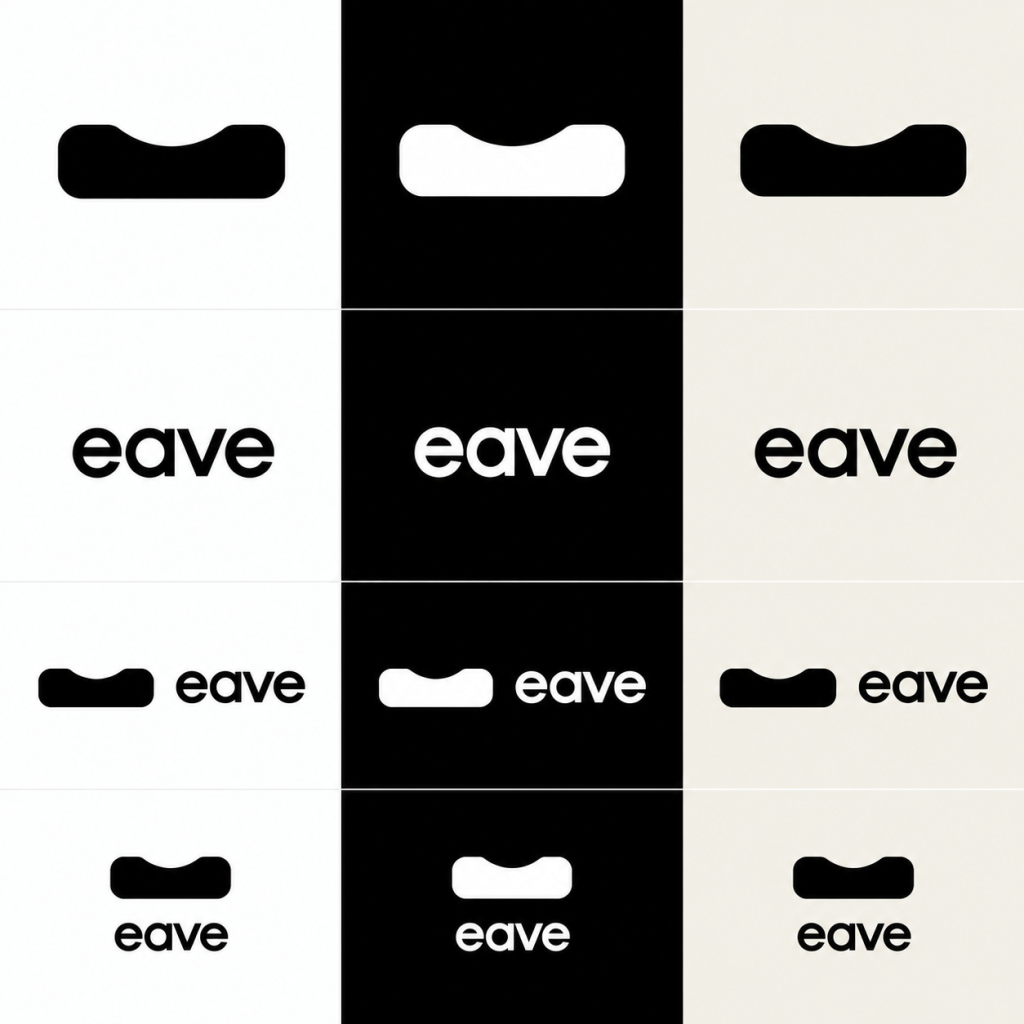
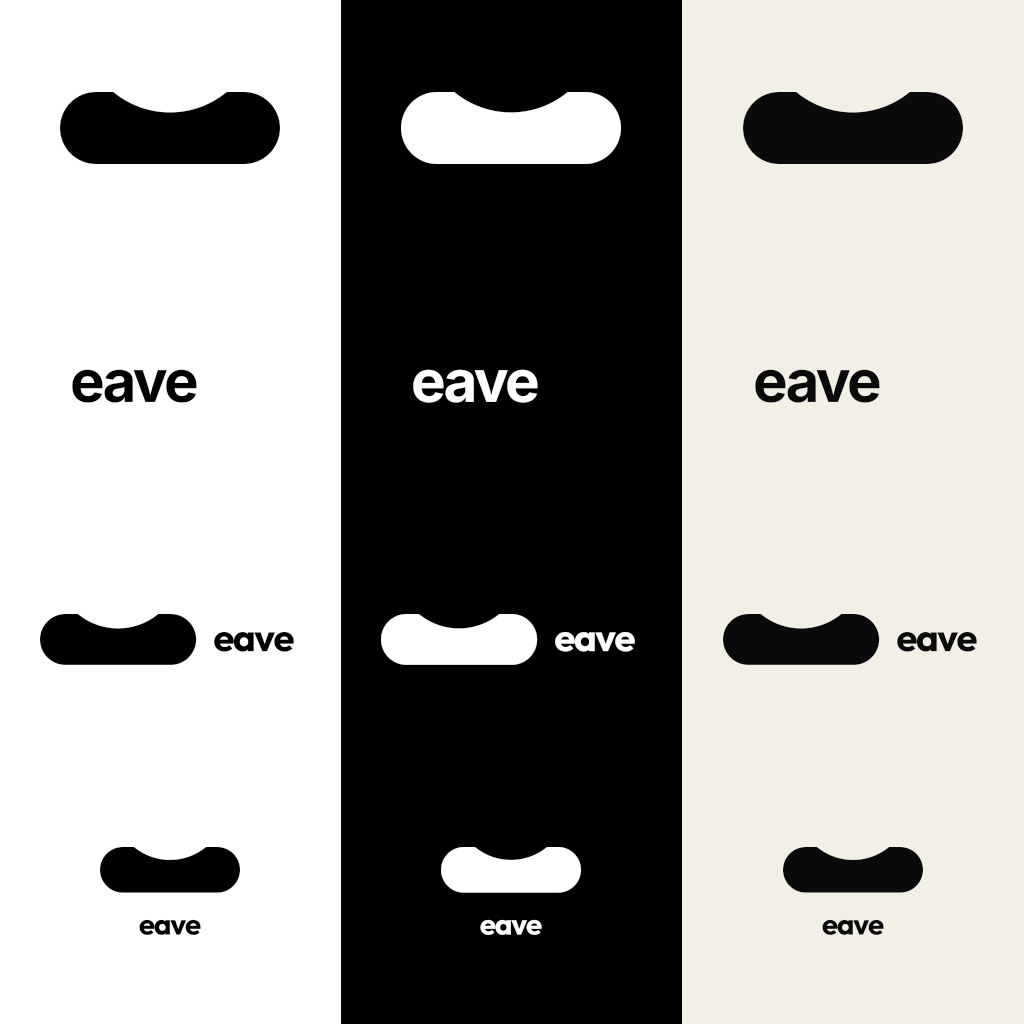
Fix the Eave mark hairline and show the wordmark in the README.
The scooped pill was an even-odd stadium plus a circle that stuck out
above the viewBox. Clippers left a chord along the cutout. Rebuild it as
one fill-only path (outer stadium minus the top scoop, no stroke) and
use the mark plus lowercase eave lockup at the top of the README.

diff --git a/site/index.html b/site/index.html
@@ -14,7 +14,7 @@
   <header class="nav" id="top">
     <a class="brand" href="#top" aria-label="Eave home">
       <svg class="brand-mark" viewBox="0 0 227 74" aria-hidden="true">
-        <path fill="currentColor" fill-rule="evenodd" d="M37 0H190A37 37 0 0 1 227 37 37 37 0 0 1 190 74H37A37 37 0 0 1 0 37 37 37 0 0 1 37 0ZM113.5-71m-92 0a92 92 0 1 1 184 0a92 92 0 1 1-184 0Z"/>
+        <path fill="currentColor" stroke="none" d="M54.99359 0H37A37 37 0 0 0 0 37 37 37 0 0 0 37 74H190A37 37 0 0 0 227 37 37 37 0 0 0 190 0H172.00641A92 92 0 0 1 54.99359 0Z"/>
       </svg>
       <span class="brand-word">eave</span>
     </a>
@@ -30,7 +30,7 @@
         <p class="hero-kicker rise" style="--d:80ms">GNOME Shell · Fedora</p>
         <h1 class="hero-lockup rise" style="--d:160ms">
           <svg class="hero-mark" viewBox="0 0 227 74" role="img" aria-label="Eave mark">
-            <path fill="currentColor" fill-rule="evenodd" d="M37 0H190A37 37 0 0 1 227 37 37 37 0 0 1 190 74H37A37 37 0 0 1 0 37 37 37 0 0 1 37 0ZM113.5-71m-92 0a92 92 0 1 1 184 0a92 92 0 1 1-184 0Z"/>
+            <path fill="currentColor" stroke="none" d="M54.99359 0H37A37 37 0 0 0 0 37 37 37 0 0 0 37 74H190A37 37 0 0 0 227 37 37 37 0 0 0 190 0H172.00641A92 92 0 0 1 54.99359 0Z"/>
           </svg>
           <span class="hero-name">eave</span>
         </h1>

diff --git a/site/styles.css b/site/styles.css
@@ -118,6 +118,13 @@ code {
   width: 2.55rem;
   height: auto;
   display: block;
+  overflow: visible;
+}
+
+.brand-mark path,
+.hero-mark path {
+  fill: currentColor;
+  stroke: none;
 }
 
 .nav-links {
@@ -214,6 +221,7 @@ code {
   width: min(14rem, 58vw);
   height: auto;
   color: var(--cream);
+  overflow: visible;
 }
 
 .hero-name {

diff --git a/README.md b/README.md
@@ -1,6 +1,6 @@
 <p align="center">
-  <img src="brand/eave-mark.svg#gh-light-mode-only" alt="Eave" width="180">
-  <img src="brand/eave-mark-white.svg#gh-dark-mode-only" alt="Eave" width="180">
+  <img src="brand/eave-lockup.svg#gh-light-mode-only" alt="eave" width="320">
+  <img src="brand/eave-lockup-white.svg#gh-dark-mode-only" alt="eave" width="320">
 </p>
 
 # Eave
